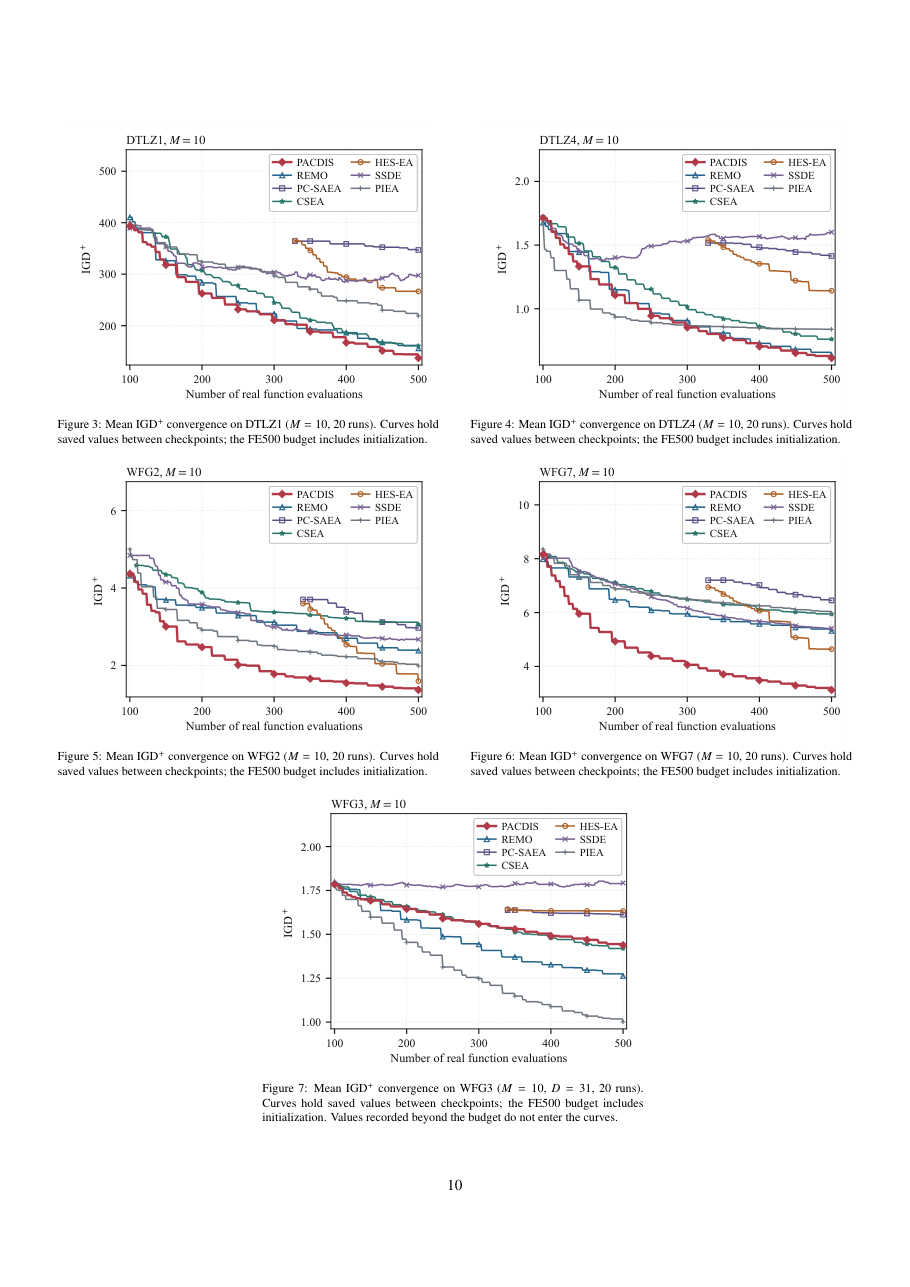
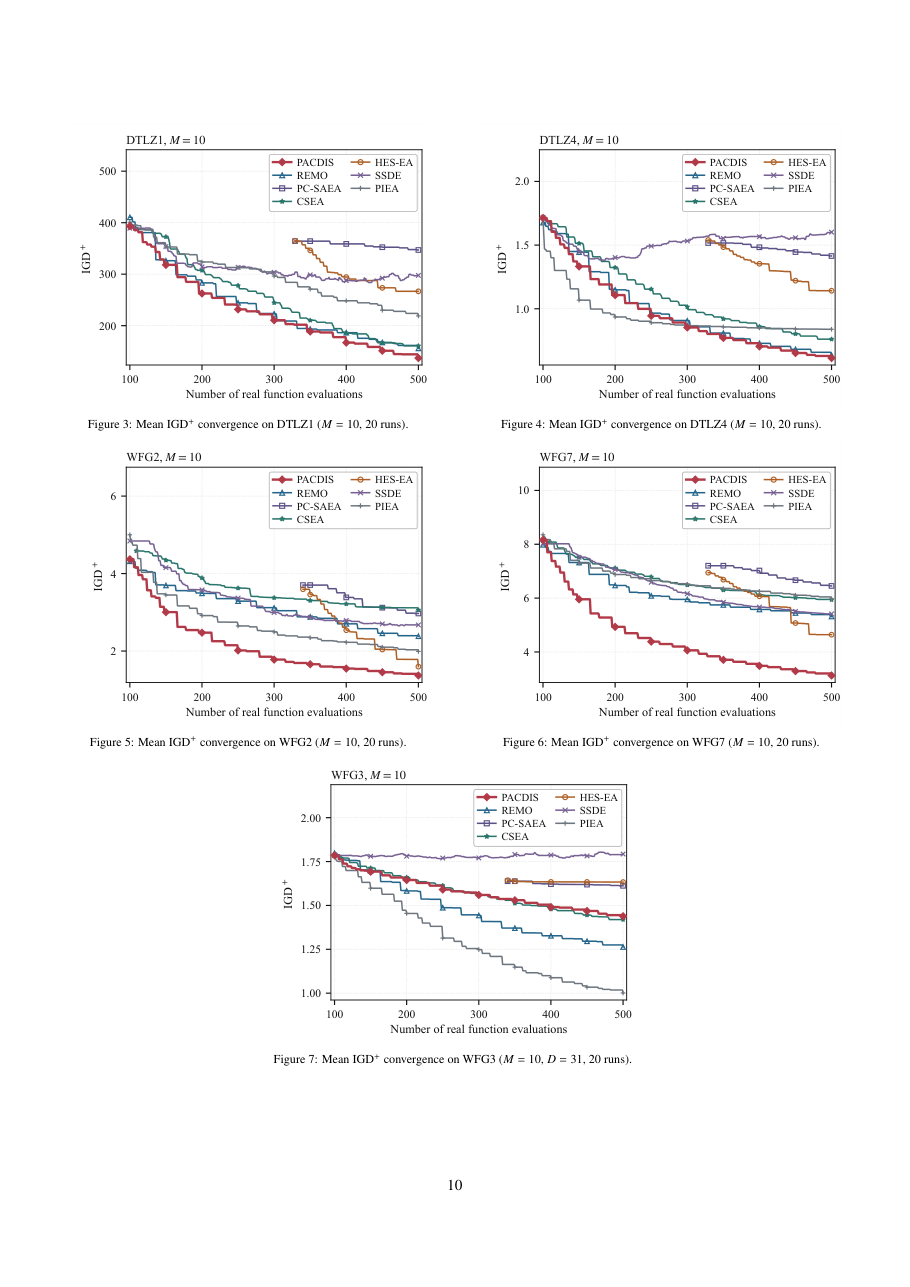
论文图注：删除图 3-7 重复的绘图口径说明
- 五张收敛图的图注统一精简为一句 "Mean IGD+ convergence on <problem> (M=10, 20 runs)."
- 删掉重复的 "Curves hold saved values between checkpoints; the FE500 budget
  includes initialization."（该口径正文 4.4 节已有一处说明）
- WFG3 图注同时删掉尾句 "Values recorded beyond the budget do not enter the curves."
- 中文对照稿图注同步删改；编译两遍通过，14 页不变

Changed region(s): [[0.0615, 0.3108, 0.9231, 0.8702]]

diff --git a/论文写作/figures/figure_convergence_fe500.tex b/论文写作/figures/figure_convergence_fe500.tex
@@ -7,15 +7,13 @@
   \begin{minipage}[t]{0.48\textwidth}
   \centering
   \includegraphics[width=0.94\linewidth]{figures/fig_convergence_fe500_dtlz1_m10.pdf}
-  \caption{Mean IGD$^+$ convergence on DTLZ1 ($M=10$, 20 runs). Curves
-  hold saved values between checkpoints; the FE500 budget includes initialization.}
+  \caption{Mean IGD$^+$ convergence on DTLZ1 ($M=10$, 20 runs).}
   \label{fig:exp:convergence:dtlz1}
   \end{minipage}\hfill
   \begin{minipage}[t]{0.48\textwidth}
   \centering
   \includegraphics[width=0.94\linewidth]{figures/fig_convergence_fe500_dtlz4_m10.pdf}
-  \caption{Mean IGD$^+$ convergence on DTLZ4 ($M=10$, 20 runs). Curves
-  hold saved values between checkpoints; the FE500 budget includes initialization.}
+  \caption{Mean IGD$^+$ convergence on DTLZ4 ($M=10$, 20 runs).}
   \label{fig:exp:convergence:dtlz4}
   \end{minipage}
 
@@ -23,15 +21,13 @@
   \begin{minipage}[t]{0.48\textwidth}
   \centering
   \includegraphics[width=0.94\linewidth]{figures/fig_convergence_fe500_wfg2_m10.pdf}
-  \caption{Mean IGD$^+$ convergence on WFG2 ($M=10$, 20 runs). Curves
-  hold saved values between checkpoints; the FE500 budget includes initialization.}
+  \caption{Mean IGD$^+$ convergence on WFG2 ($M=10$, 20 runs).}
   \label{fig:exp:convergence:wfg2}
   \end{minipage}\hfill
   \begin{minipage}[t]{0.48\textwidth}
   \centering
   \includegraphics[width=0.94\linewidth]{figures/fig_convergence_fe500_wfg7_m10.pdf}
-  \caption{Mean IGD$^+$ convergence on WFG7 ($M=10$, 20 runs). Curves
-  hold saved values between checkpoints; the FE500 budget includes initialization.}
+  \caption{Mean IGD$^+$ convergence on WFG7 ($M=10$, 20 runs).}
   \label{fig:exp:convergence:wfg7}
   \end{minipage}
 

diff --git a/论文写作/figures/figure_convergence_wfg3_fe500.tex b/论文写作/figures/figure_convergence_wfg3_fe500.tex
@@ -1,8 +1,6 @@
   \begin{minipage}{0.48\textwidth}
   \centering
   \includegraphics[width=0.94\linewidth]{figures/fig_convergence_fe500_wfg3_m10.pdf}
-  \caption{Mean IGD$^+$ convergence on WFG3 ($M=10$, $D=31$, 20 runs).
-  Curves hold saved values between checkpoints; the FE500 budget includes
-  initialization. Values recorded beyond the budget do not enter the curves.}
+  \caption{Mean IGD$^+$ convergence on WFG3 ($M=10$, $D=31$, 20 runs).}
   \label{fig:exp:convergence:wfg3}
   \end{minipage}

diff --git a/论文写作/HPDC-MaOEA_中文版.md b/论文写作/HPDC-MaOEA_中文版.md
@@ -419,19 +419,19 @@ HES-EA 在全部三种目标数下的 DTLZ7 和 WFG8 上取得最低均值。当
 
 ![图 3：DTLZ1 十目标平均 IGD+ 收敛曲线](D:/PlatEMO-master/论文写作/figures/fig_convergence_fe500_dtlz1_m10.png)
 
-**图 3　DTLZ1 上的平均 IGD$^+$ 收敛曲线（$M=10$，20 次运行）。** 曲线在检查点之间保持已保存值；FE500 预算包含初始化。
+**图 3　DTLZ1 上的平均 IGD$^+$ 收敛曲线（$M=10$，20 次运行）。**
 
 ![图 4：DTLZ4 十目标平均 IGD+ 收敛曲线](D:/PlatEMO-master/论文写作/figures/fig_convergence_fe500_dtlz4_m10.png)
 
-**图 4　DTLZ4 上的平均 IGD$^+$ 收敛曲线（$M=10$，20 次运行）。** 曲线在检查点之间保持已保存值；FE500 预算包含初始化。
+**图 4　DTLZ4 上的平均 IGD$^+$ 收敛曲线（$M=10$，20 次运行）。**
 
 ![图 5：WFG2 十目标平均 IGD+ 收敛曲线](D:/PlatEMO-master/论文写作/figures/fig_convergence_fe500_wfg2_m10.png)
 
-**图 5　WFG2 上的平均 IGD$^+$ 收敛曲线（$M=10$，20 次运行）。** 曲线在检查点之间保持已保存值；FE500 预算包含初始化。
+**图 5　WFG2 上的平均 IGD$^+$ 收敛曲线（$M=10$，20 次运行）。**
 
 ![图 6：WFG7 十目标平均 IGD+ 收敛曲线](D:/PlatEMO-master/论文写作/figures/fig_convergence_fe500_wfg7_m10.png)
 
-**图 6　WFG7 上的平均 IGD$^+$ 收敛曲线（$M=10$，20 次运行）。** 曲线在检查点之间保持已保存值；FE500 预算包含初始化。
+**图 6　WFG7 上的平均 IGD$^+$ 收敛曲线（$M=10$，20 次运行）。**
 
 **WFG3 上的表现。** 图 7 展示相同绘图口径下的十目标 WFG3（$D=31$）。PACDIS 的平均 IGD$^+$ 持续下降，但 REMO 在 $FE=340$–500 全程保持更低均值。PIEA 从 $FE=100$ 开始，终点低于 PACDIS。在 $FE=500$ 时，PACDIS、REMO 和 PIEA 的均值分别为 1.4387、1.2630 和 0.94564。PIEA 在与 PACDIS 相同的初始化数量和配置评价预算下取得更低终点值。
 
@@ -439,7 +439,7 @@ HES-EA 在全部三种目标数下的 DTLZ7 和 WFG8 上取得最低均值。当
 
 ![图 7：WFG3 十目标平均 IGD+ 收敛曲线](D:/PlatEMO-master/论文写作/figures/fig_convergence_fe500_wfg3_m10.png)
 
-**图 7　WFG3 上的平均 IGD$^+$ 收敛曲线（$M=10$，$D=31$，20 次运行）。** 曲线在检查点之间保持已保存值；FE500 预算包含初始化。预算之后记录的值不进入曲线。
+**图 7　WFG3 上的平均 IGD$^+$ 收敛曲线（$M=10$，$D=31$，20 次运行）。**
 
 ### 4.3 消融研究
 
